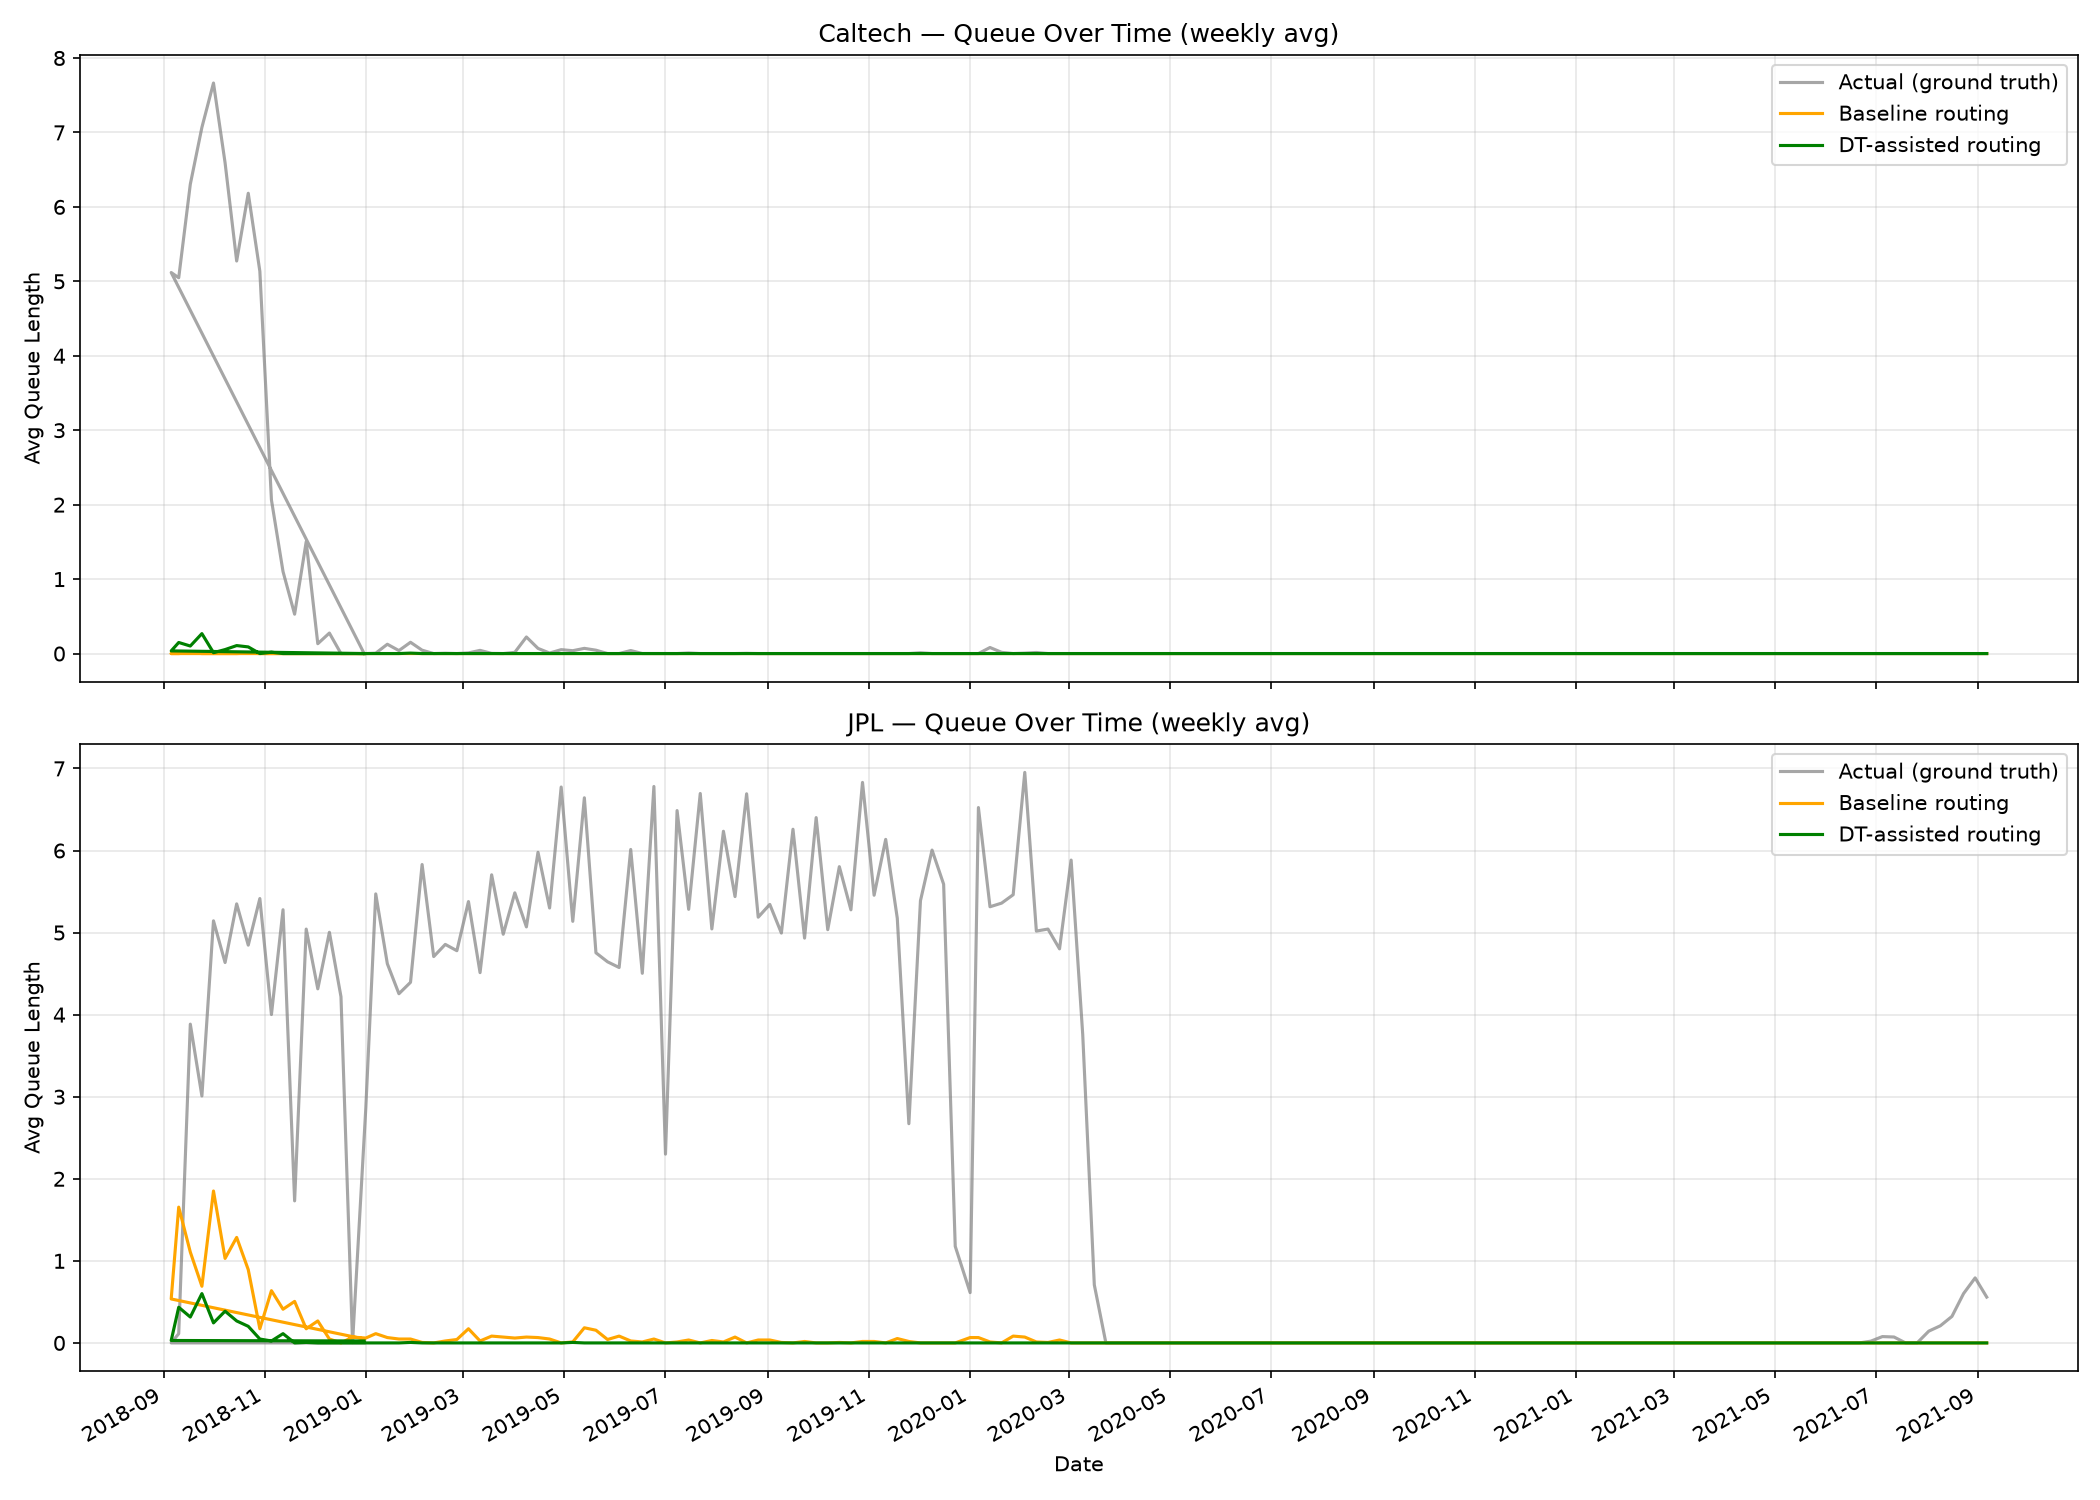
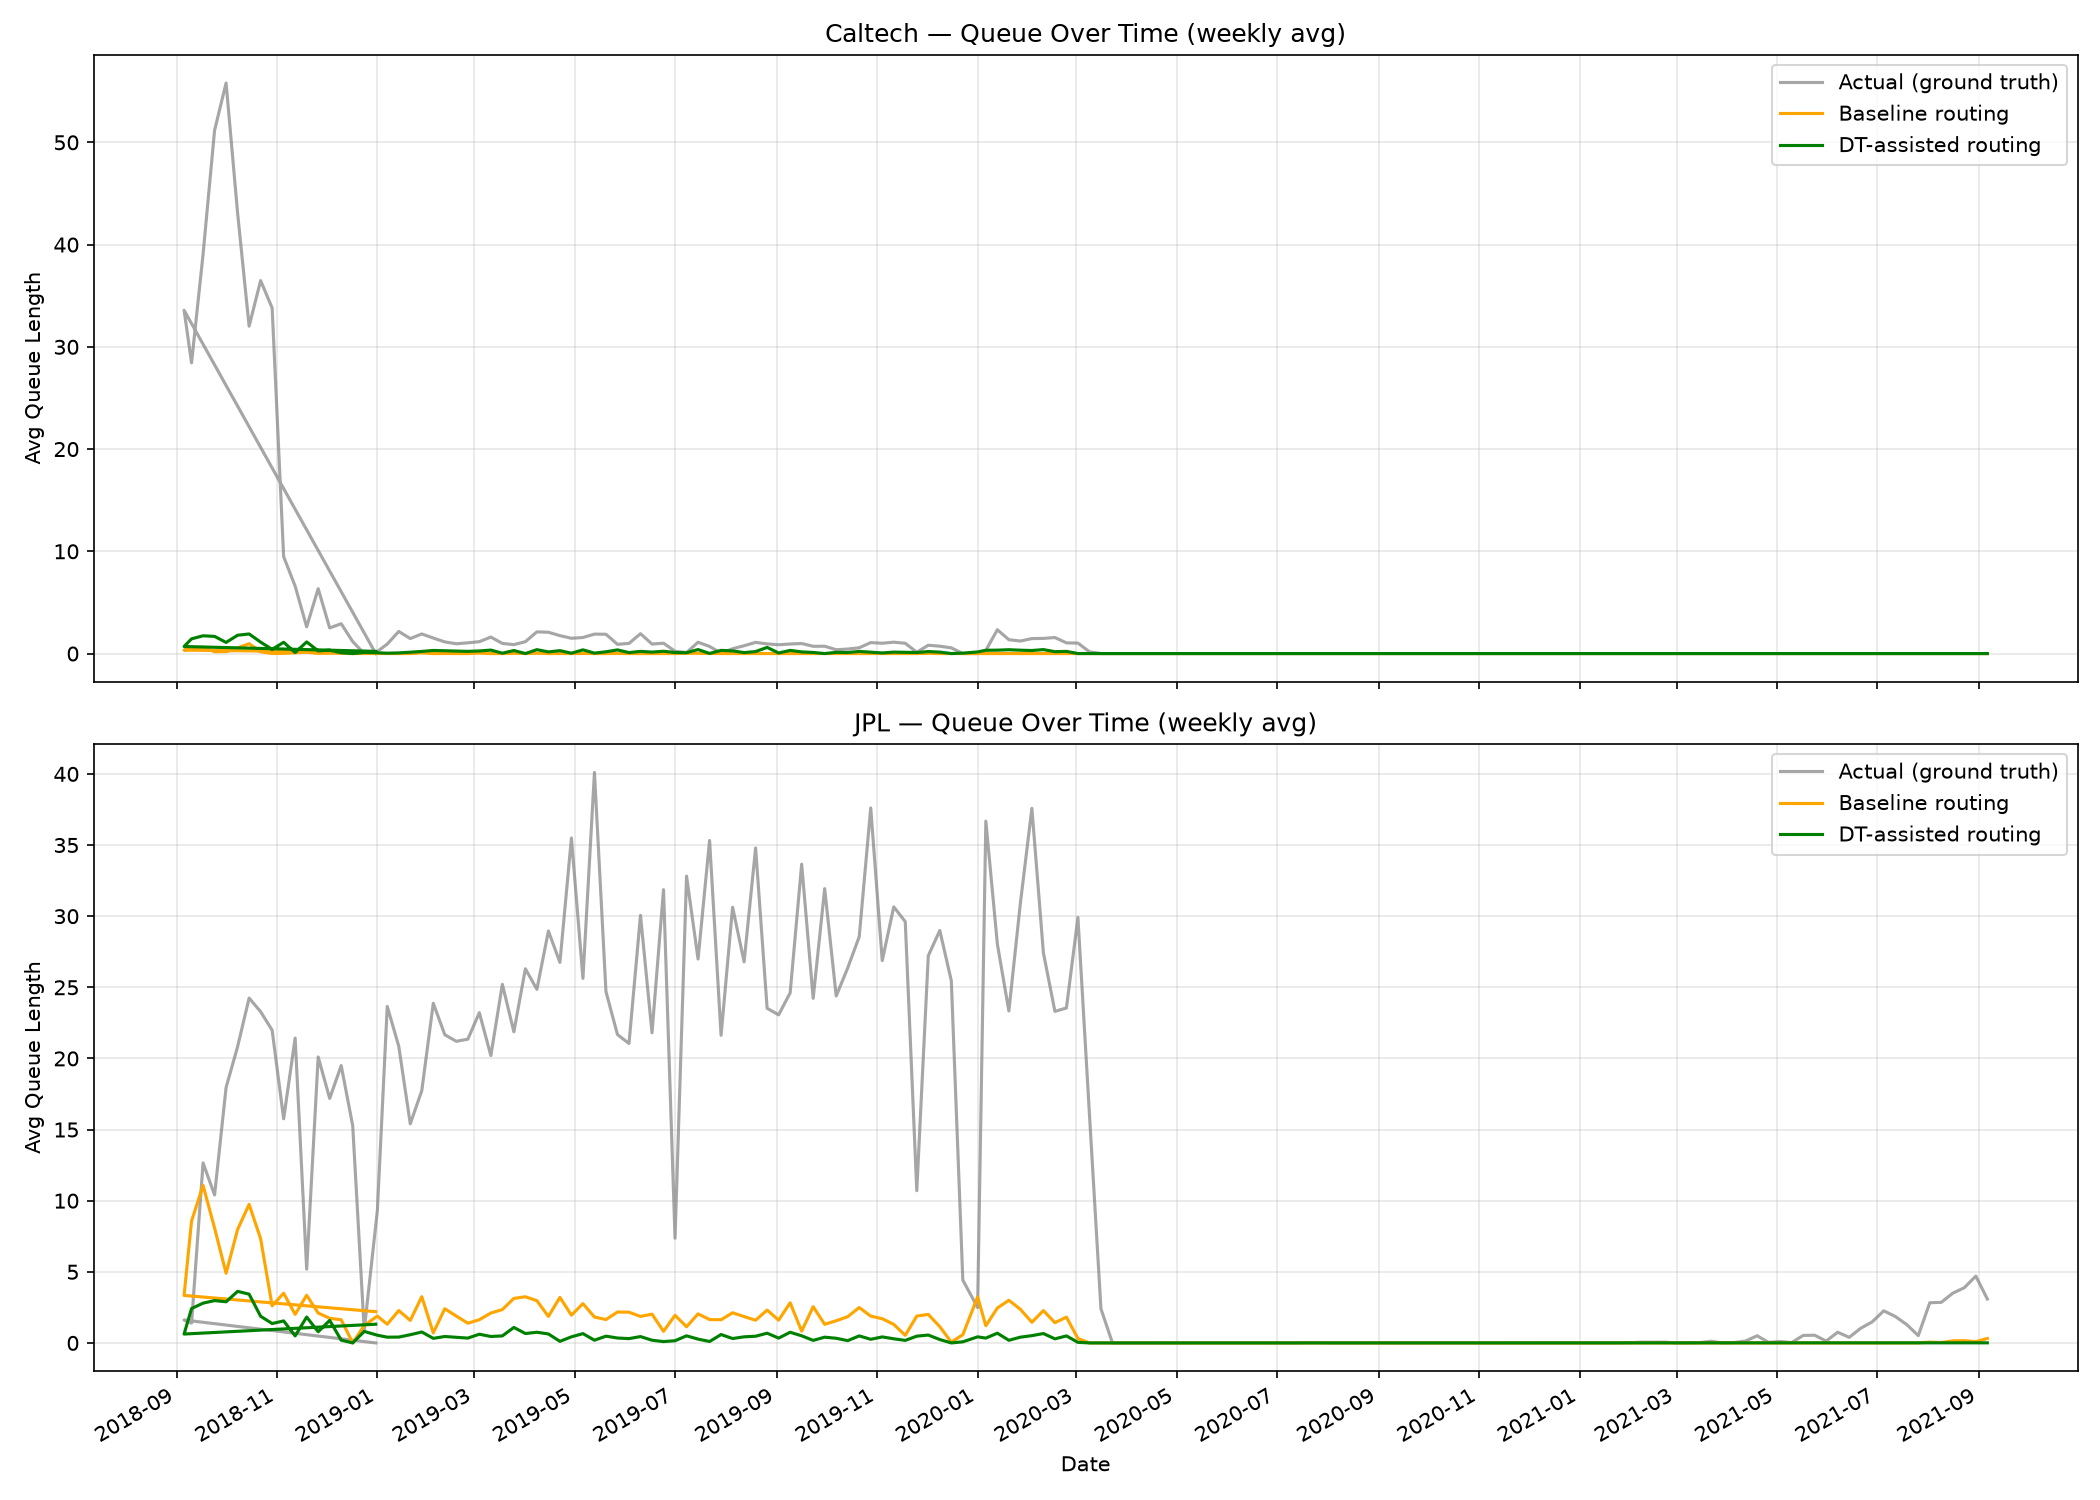
fix: g/g/s

diff --git a/src/ggs_queue_simulator.py b/src/ggs_queue_simulator.py
@@ -25,23 +25,24 @@ class GGsQueueSimulator:
             return float(np.random.choice(pool))
         return 240.0
 
-    def reset(self, initial_state):
+    def reset(self, initial_state=None):
         self.current_time = 0.0
         for site in SITES:
-            s = initial_state[site]
             n = self.num_chargers[site]
-            active = int(round(s['active_sessions']))
-            q_len = int(round(s['queue_length']))
-            active = min(active, n)
-
             self.chargers[site] = [None] * n
-            for i in range(active):
-                st = self._sample_service_time(site)
-                self.chargers[site][i] = np.random.uniform(0, st)
-
             self.queue[site] = deque()
-            for _ in range(q_len):
-                self.queue[site].append((self._sample_service_time(site), 0.0))
+
+    def _drain_queue(self, site):
+        n = self.num_chargers[site]
+        while self.queue[site]:
+            free_idx = next(
+                (i for i in range(n) if self.chargers[site][i] is None),
+                None
+            )
+            if free_idx is None:
+                break
+            svc_time, arr_time = self.queue[site].popleft()
+            self.chargers[site][free_idx] = self.current_time + svc_time
 
     def step(self, routed_arrivals, service_time_minutes=None):
         hour_start = self.current_time
@@ -55,6 +56,8 @@ class GGsQueueSimulator:
             for i in range(n):
                 if self.chargers[site][i] is not None and self.chargers[site][i] <= hour_start:
                     self.chargers[site][i] = None
+
+            self._drain_queue(site)
 
             if n_arrivals == 0 and len(self.queue[site]) == 0 and \
                     all(c is None for c in self.chargers[site]):

diff --git a/src/main.py b/src/main.py
@@ -1,15 +1,19 @@
 import sys
-sys.path.insert(0, 'src')
+import os
+sys.path.insert(0, os.path.dirname(os.path.dirname(os.path.abspath(__file__))))
+sys.path.insert(0, os.path.dirname(os.path.abspath(__file__)))
 
 from simulation_runner import SimulationRunner
 
+root = os.path.dirname(os.path.dirname(os.path.abspath(__file__)))
+
 
 def main():
-    runner = SimulationRunner('datasets/ground_truth.csv')
+    runner = SimulationRunner(os.path.join(root, 'datasets', 'ground_truth.csv'))
     df_dt, df_baseline, summary = runner.run()
-    df_dt.to_csv('results/results_dt.csv', index=False)
-    df_baseline.to_csv('results/results_baseline.csv', index=False)
-    summary.to_csv('results/evaluation_summary.csv', index=False)
+    df_dt.to_csv(os.path.join(root, 'results', 'results_dt.csv'), index=False)
+    df_baseline.to_csv(os.path.join(root, 'results', 'results_baseline.csv'), index=False)
+    summary.to_csv(os.path.join(root, 'results', 'evaluation_summary.csv'), index=False)
     print("\nResults saved to results/*.csv")
 
 

diff --git a/src/config.py b/src/config.py
@@ -1,5 +1,5 @@
 SITES = ['Caltech', 'JPL']
-NUM_CHARGERS = {'Caltech': 30, 'JPL': 32}
+NUM_CHARGERS = {'Caltech': 10, 'JPL': 10}
 FL_AGGREGATION_INTERVAL = 24
 
 SERVICE_TIME_COL = 'average_service_time_minutes'